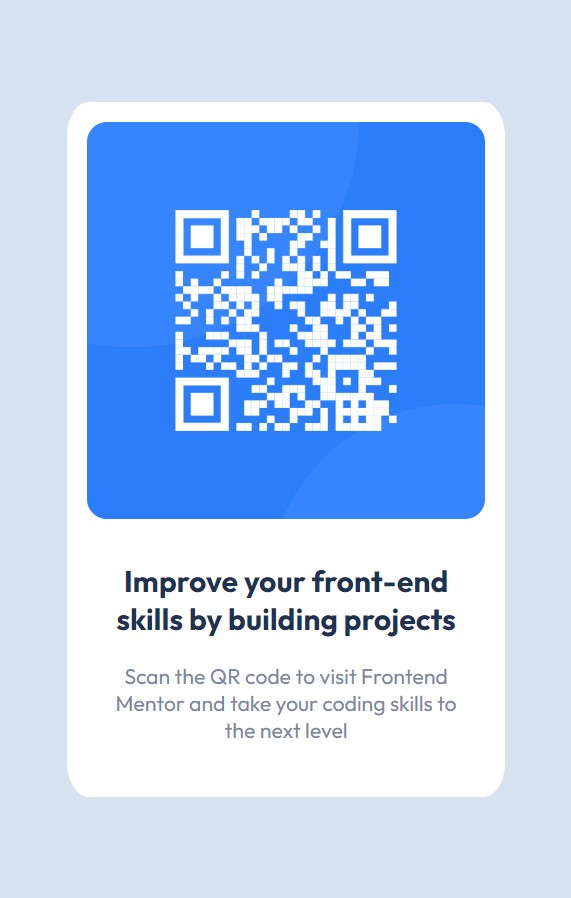
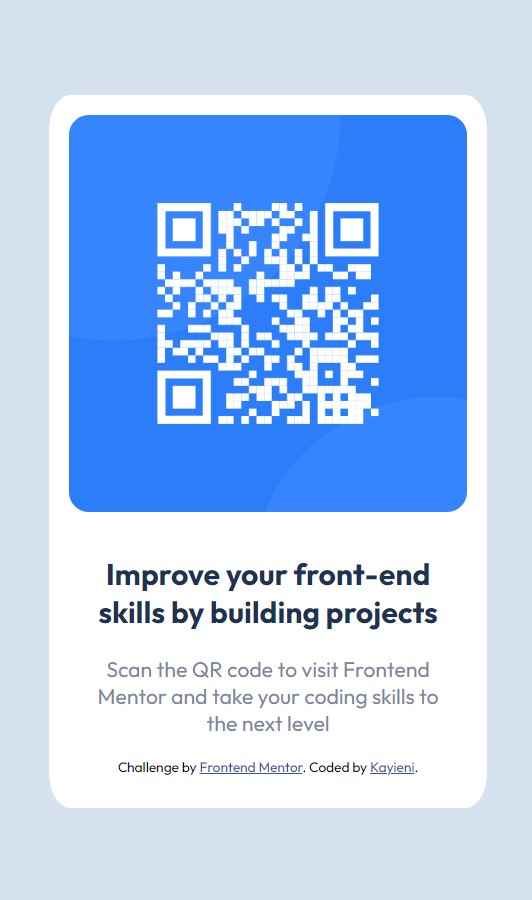
author details

Changed region(s): [[0.0902, 0.0935, 0.9323, 0.9042], [0.2707, 0.2183, 0.7218, 0.4989]]

diff --git a/QRcode.html b/QRcode.html
@@ -1,0 +1,42 @@
+<!DOCTYPE html>
+<html lang="en">
+
+<head>
+  <meta charset="UTF-8">
+  <meta name="viewport" content="width=device-width, initial-scale=1.0">
+  <!-- displays site properly based on user's device -->
+  <link rel="stylesheet" href="QRcode.css">
+  <link rel="icon" type="image/png" sizes="32x32" href="./images/favicon-32x32.png">
+
+  <title>Frontend Mentor | QR code component</title>
+
+  <!-- Feel free to remove these styles or customise in your own stylesheet 👍 -->
+  <style>
+    .attribution {
+      font-size: 11px;
+      text-align: center;
+    }
+
+    .attribution a {
+      color: hsl(228, 45%, 44%);
+    }
+  </style>
+</head>
+
+<body>
+  <div class="card">
+    <div class="qr">
+      <img src="./images/image-qr-code.png" alt="qr_code">
+    </div>
+    <div class="text">
+      <h2>Improve your front-end skills by building projects</h2>
+      <p>Scan the QR code to visit Frontend Mentor and take your coding skills to the next level</p>
+      <div class="attribution">
+        Challenge by <a href="https://www.frontendmentor.io?ref=challenge" target="_blank">Frontend Mentor</a>.
+        Coded by <a href="https://www.frontendmentor.io/profile/Kayieni">Kayieni</a>.
+      </div>
+    </div>
+  </div>
+</body>
+
+</html>
